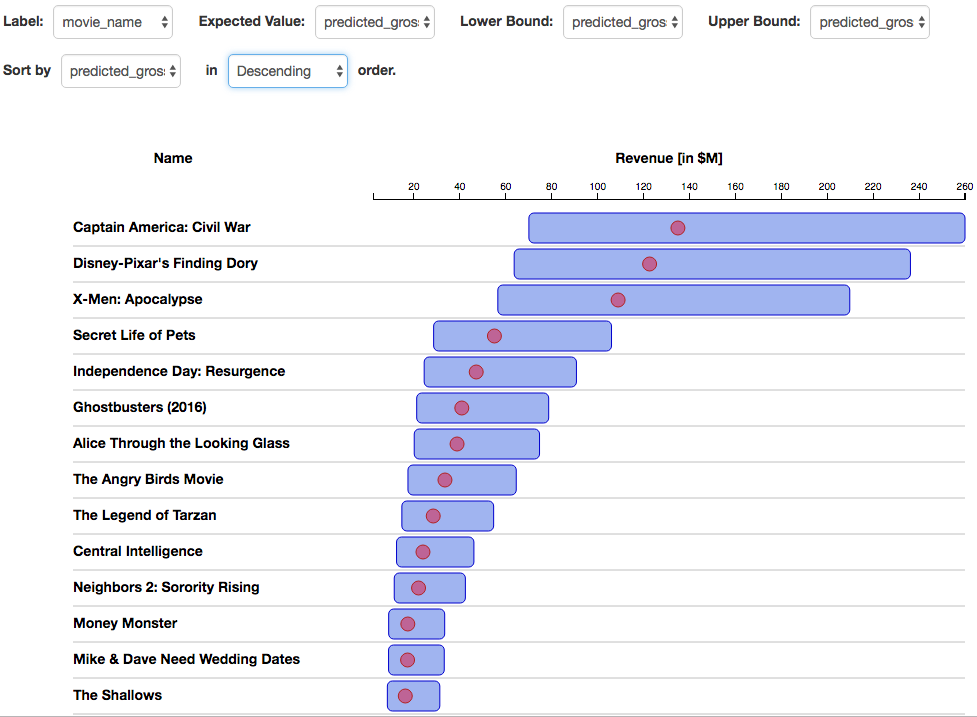
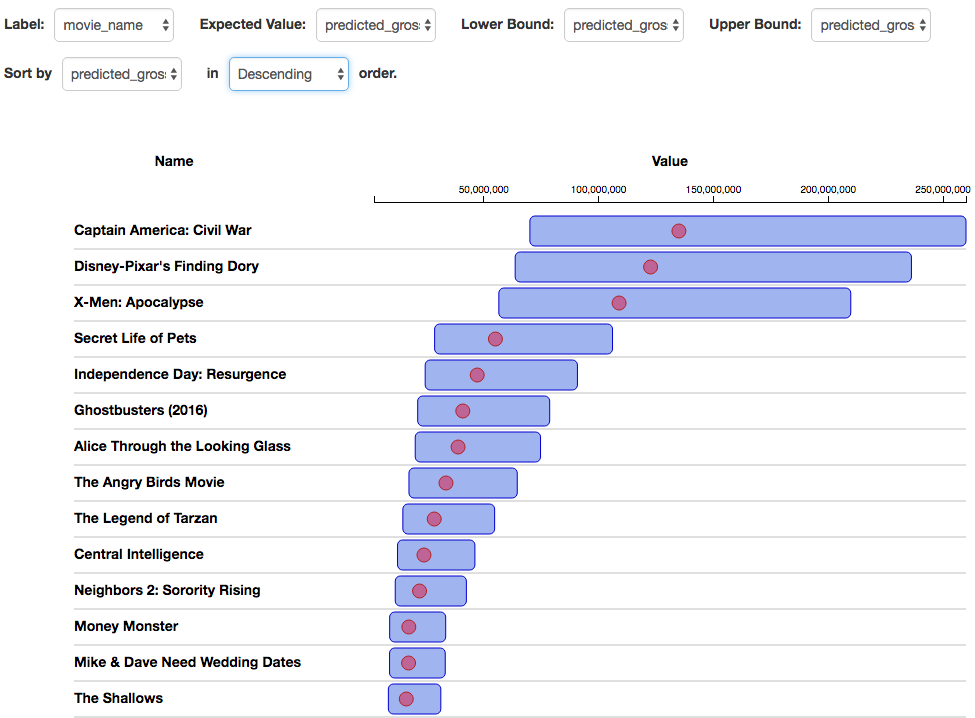
FIX ConfidenceInterval fixed # of tick labels

Changed region(s): [[0.0615, 0.2148, 1.0, 1.0], [0.0, 0.0, 0.9538, 0.1534], [0.1538, 0.2148, 0.2154, 0.2455]]

diff --git a/ConfidenceInterval/ConfidenceInterval_template.html b/ConfidenceInterval/ConfidenceInterval_template.html
@@ -82,41 +82,44 @@ body, html { overflow: scroll; height: 100% }
         <div class="tab-pane" id="b_tab">
             <h1>Info</h1>
           	<h2>Introduction</h2>
-          	<p>This section provides a manual for the Horizontal Bar Chart visualization. It explains the meaning of the inputs, the correct specification of the input data table and known issues.</p>
+          	<p>This section provides a manual for the Confidence Interval visualization. It explains the meaning of the inputs, the correct specification of the input data table and known issues.</p>
           	<h2>Inputs</h2>
-          	<img src="https://github.com/pcooman/d3_tools/blob/master/HorBarChart/HorBarChart_Toolbar_empty.png?raw=true">
-    				<ul>
-              <li><b>Revenue:</b> A dropdown menu to select the column in the data table that contains the values for the property you want to plot. These values determine the lengths of the bars. </li>
-              <li><b>Movie name:</b> A dropdown menu to select the column in the data table that contains the names of the categories. There should be one label for each bar.</li>
-              <li><b>Sort by:</b> An input form to specifiy how to sort the data. You may choose to sort the values themselves or their labels. If the labels are strings, they will be sorted alphabetically. You can sort along any column in the data, even if it is not the property selected under <i>Property (y)</i>.</li>
+          	<img src="https://github.com/pcooman/d3_tools/blob/master/ConfidenceInterval/ConfidenceInterval_Toolbar_Empty.png?raw=true">
+    		 <ul>
+              <li><b>Label:</b> A dropdown menu to select the column in the data table that contains the labels. These will be listed on the left side of the plot.</li>
+              <li><b>Expected value:</b> A dropdown menu to select the column in the data table that contains the mean value of the property of interest. This value is represented in the plot by a red dot.</li>
+              <li><b>Lower bound:</b> A dropdown menu to select the column in the data table that contains the values of the lower bound of the propety of interest. Typically, these would correspond to the lower bounds of the 95% or 80% confidence interval.</li>
+              <li><b>Upper bound:</b> A dropdown menu to select the column in the data table that contains the values of the upper bound of the propety of interest. Typically, these would correspond to the upper bounds of the 95% or 80% confidence interval.</li>
+              <li><b>Sort by:</b> An dropdown menu to select the column in the data to sort by.  form to specifiy how to sort the data. You may choose to sort the values themselves or their labels. If the labels are strings, they will be sorted alphabetically. You can sort along any column in the data, even if it is not the property selected under <i>Property (y)</i>.</li>
+              <li><b>Order:</b> A dropdown menu to specify whether the dat should be sorted in ascending or descending order of the property selected in the <i>Sort by</i> menu.</li>
             </ul>
           	<h2>Data table</h2>
-          	<p>To get the correct visualization, the data table needs to be organized as 								follows:<p>
-          	<img src="https://github.com/pcooman/d3_tools/blob/master/HorBarChart/HorBarChart_table.png?raw=true">
-          	<p>The plot will generate a bar for each row of the table. You are responsible for removing duplicate rows. You will need at least one column with category labels and at least one column with corresponding values. The table can contain additional columns, the toolbar will let you select the columns that are relevant to the plot.</p>
+          	<p>To get the correct visualization, the data table needs to be organized as follows:<p>
+          	<img src="https://github.com/pcooman/d3_tools/blob/master/ConfidenceInterval/ConfidenceInterval_Table.png?raw=true">
+          	<p>The plot will generate a bar for each row of the table. You are responsible for removing duplicate rows. You will need at least one column with labels, one column with mean values and one column each for the lower and upper bounds. The table can contain additional columns, the toolbar will let you select the columns that are relevant to the plot.</p>
           	<h2>Known issues</h2>
-          	<p>Even in the horizontal configuration, the number of bars that can be plotted is limited (currently 277). Possible fix: make def_vis_height dependent on the number of rows in the input data set.</p>
+          	<p>The number of bars that can be plotted is limited (currently 277). Possible fix: make def_vis_height dependent on the number of rows in the input data set.</p>
             <bcontent></bcontent>
         </div>
       
       	<div class="tab-pane" id="c_tab">
             <h1>Example</h1>
           	<h2>Introduction</h2>
-          	<p>Here we show an example of what the horizontal bar chart should look like. We will plot the values stored in a sample data set which can be accessed from Platform at pcooman.pos_neg_values.</p>
+          	<p>Here we show an example of what the Confidence Interval chart should look like. We will plot the values stored in a sample data set which can be accessed from Platform at pcooman.movies.</p>
             <h2>Data table</h2>
-          	<img src="https://github.com/pcooman/d3_tools/blob/master/HorBarChart/HorBarChart_table.png?raw=true">
-          	<p>In this table, the <i>name</i> column contains the bar labels and the <i>value</i> column contains the length (or height) of the bars.</p>
+          	<img src="https://github.com/pcooman/d3_tools/blob/master/ConfidenceInterval/ConfidenceInterval_Table.png?raw=true">
+          	<p>In this table, the <i>movie_name</i> column contains the labels, the <i>predicted_gross_revenue_rf</i> column contains the expected value, the <i>predicted_gross_revenue_95_lower</i> column contains the lower bound values and the <i>predicted_gross_revenue_95_upper2</i> columns contains the upper bound values.</p>
           	<h2>Sample plot</h2>
-          	<p>After selecting <i>value</i> and <i>name</i> from the <i>Property (y)</i> and <i>Label (x)</i> drop down menus repsectively, your plot should look something like this:</p>
-            <img src="https://github.com/pcooman/d3_tools/blob/master/HorBarChart/HorBarChart_unSorted.png?raw=true">
-           <p>Bold, white labels located at the end of each bar show the height of the bar (= value)</p>
+          	<p>After selecting <i>Label</i>, <i>Expected value</i>, <i>Lower bound</i> and <i>Upperbound</i> drop down menus, your plot should look something like this:</p>
+            <img src="https://github.com/pcooman/d3_tools/blob/master/ConfidenceInterval/ConfidenceInterval_Example.png?raw=true">
            <p>We can sort the bars according to their values,</p>
-           <img src="https://github.com/pcooman/d3_tools/blob/master/HorBarChart/HorBarChart_Sorted_value.png?raw=true">
+           <img src="https://github.com/pcooman/d3_tools/blob/master/ConfidenceInterval/ConfidenceInterval_SortedByValue.png?raw=true">
            <p>or according to their labels (alphabetically):<p>
-           <img src="https://github.com/pcooman/d3_tools/blob/master/HorBarChart/HorBarChart_Sorted_name.png?raw=true">
-           <p>Finally, we can change the orientation of the bars:</p>
-           <img src = "https://github.com/pcooman/d3_tools/blob/master/HorBarChart/HorBarChart_Vertical.png?raw=true">
-           <p>Note that the width of the bars has been adjusted automatically such that the figure uses the entire width of the screen and shows all records in the data set.</p>
+           <img src="https://github.com/pcooman/d3_tools/blob/master/ConfidenceInterval/ConfidenceInterval_SortedByName.png?raw=true">
+           <p>Hovering over a confidence interval will highight the bar and bring up a tooltip listing the relvant values for that record:</p>
+           <img src = "https://github.com/pcooman/d3_tools/blob/master/ConfidenceInterval/ConfidenceInterval_TooltipBar.png?raw=true">
+           <p>Finally, hovering over a red dot adds a vertical red line originating at the selected node.</p>
+           <img src="https://github.com/pcooman/d3_tools/blob/master/ConfidenceInterval/ConfidenceIntrval_TooltipMean.png?raw=true">
             <ccontent></ccontent>
         </div>
       

diff --git a/Histogram/D3_Histogram_template_JS.html b/Histogram/D3_Histogram_template_JS.html
@@ -602,7 +602,7 @@ var createToolbar = function(client,def_vis_width,def_vis_height,params) {
                                             params[dim+'axislabel'] = newVar;
                                             CivisReport.saveParams(params);
                                          }
-                                     		}(dim));
+                                        }(dim));
                                       }
 
                                     // Create numerical inputs for number of histogram bins.
